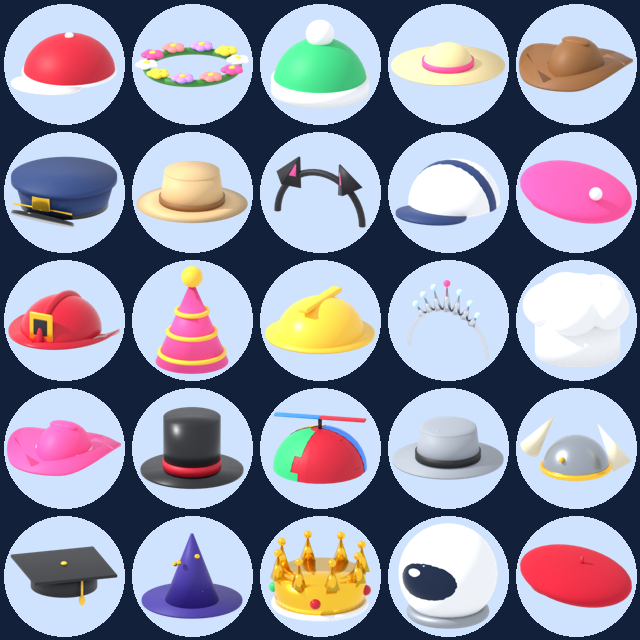
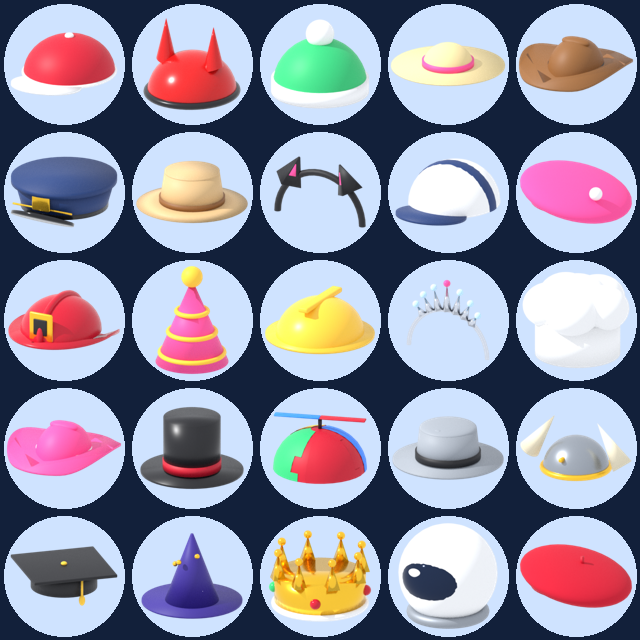
Hats: a red devil helmet with curved horns replaces the flower crown
Claude-Session: https://claude.ai/code/session_017STqJTMpUnkXP36gRmKSGi

Changed region(s): [[0.2188, 0.0312, 0.4062, 0.1875]]

diff --git a/Cornhole/Web/index.html b/Cornhole/Web/index.html
@@ -2133,7 +2133,7 @@ function scheduleLivesAlert() {
 // Headgear avatars made in Blender (web/tools/blender/hats.py): 4 to start, 3 more with each court you open, the
 // rarest (crown, astronaut, beret) at Court 8. About half are feminine picks. Ids stay a0..a24 so saves carry over.
 const AVATARS = [
-  ["ballcap", "#cfe3ff", 0], ["flowercrown", "#ffe0ee", 0], ["beanie", "#d8f2d8", 0], ["sunhat", "#fff2c8", 0],
+  ["ballcap", "#cfe3ff", 0], ["devil", "#ffe0d8", 0], ["beanie", "#d8f2d8", 0], ["sunhat", "#fff2c8", 0],
   ["cowboy", "#ffe6c8", 1], ["police", "#dbe6ff", 1], ["bucket", "#e6eef8", 1],
   ["catears", "#f0e6ff", 2], ["trucker", "#dbe6ff", 2], ["pinkberet", "#ffe0ec", 2],
   ["fireman", "#ffe0d8", 3], ["party", "#fff0c8", 3], ["hardhat", "#e6eef8", 3],
@@ -4251,7 +4251,7 @@ if (!nativeBridge) {
   }
 }
 // Testing: every new build refills the cooler with ready-to-open cans, so there's always something to try.
-const BUILD_ID = "1794102800";
+const BUILD_ID = "1794102889";
 if (testing() && career.testBuild !== BUILD_ID) {
   career.testBuild = BUILD_ID;
   career.cans = ["gold", "purple", "platinum", "diamond"].map(id => ({ id, court: topCourt(), start: Date.now() - 2 * 86400000 }));

diff --git a/web/index.html b/web/index.html
@@ -2129,7 +2129,7 @@ function scheduleLivesAlert() {
 // Headgear avatars made in Blender (web/tools/blender/hats.py): 4 to start, 3 more with each court you open, the
 // rarest (crown, astronaut, beret) at Court 8. About half are feminine picks. Ids stay a0..a24 so saves carry over.
 const AVATARS = [
-  ["ballcap", "#cfe3ff", 0], ["flowercrown", "#ffe0ee", 0], ["beanie", "#d8f2d8", 0], ["sunhat", "#fff2c8", 0],
+  ["ballcap", "#cfe3ff", 0], ["devil", "#ffe0d8", 0], ["beanie", "#d8f2d8", 0], ["sunhat", "#fff2c8", 0],
   ["cowboy", "#ffe6c8", 1], ["police", "#dbe6ff", 1], ["bucket", "#e6eef8", 1],
   ["catears", "#f0e6ff", 2], ["trucker", "#dbe6ff", 2], ["pinkberet", "#ffe0ec", 2],
   ["fireman", "#ffe0d8", 3], ["party", "#fff0c8", 3], ["hardhat", "#e6eef8", 3],
@@ -4247,7 +4247,7 @@ if (!nativeBridge) {
   }
 }
 // Testing: every new build refills the cooler with ready-to-open cans, so there's always something to try.
-const BUILD_ID = "1794102800";
+const BUILD_ID = "1794102889";
 if (testing() && career.testBuild !== BUILD_ID) {
   career.testBuild = BUILD_ID;
   career.cans = ["gold", "purple", "platinum", "diamond"].map(id => ({ id, court: topCourt(), start: Date.now() - 2 * 86400000 }));

diff --git a/web/src/g1d_economy.js b/web/src/g1d_economy.js
@@ -187,7 +187,7 @@ function scheduleLivesAlert() {
 // Headgear avatars made in Blender (web/tools/blender/hats.py): 4 to start, 3 more with each court you open, the
 // rarest (crown, astronaut, beret) at Court 8. About half are feminine picks. Ids stay a0..a24 so saves carry over.
 const AVATARS = [
-  ["ballcap", "#cfe3ff", 0], ["flowercrown", "#ffe0ee", 0], ["beanie", "#d8f2d8", 0], ["sunhat", "#fff2c8", 0],
+  ["ballcap", "#cfe3ff", 0], ["devil", "#ffe0d8", 0], ["beanie", "#d8f2d8", 0], ["sunhat", "#fff2c8", 0],
   ["cowboy", "#ffe6c8", 1], ["police", "#dbe6ff", 1], ["bucket", "#e6eef8", 1],
   ["catears", "#f0e6ff", 2], ["trucker", "#dbe6ff", 2], ["pinkberet", "#ffe0ec", 2],
   ["fireman", "#ffe0d8", 3], ["party", "#fff0c8", 3], ["hardhat", "#e6eef8", 3],

diff --git a/web/tools/blender/hats.py b/web/tools/blender/hats.py
@@ -243,7 +243,19 @@ def police():
     cyl((0, -0.96, 0.24), 0.02, 1.4, GOLD, rot=(0, math.radians(90), 0), metal=0.85)  # gold cord above the peak
     render("police")
 
-HATS = [ball_cap, flowercrown, beanie, sunhat, cowboy, police, bucket, catears, trucker, pinkberet, fireman, party, hardhat, tiara,
+def devil():
+    setup(); sphere((0, 0, 0), (1, 1.05, 0.95), "#d01818", half=True, rough=0.25)   # glossy red helmet
+    torus((0, 0, 0.04), 1.0, 0.08, BLACK, scale=(1, 1.05, 1), rough=0.3)
+    for sx in (-1, 1):  # smooth horns that curve outward toward their tips
+        bpy.ops.mesh.primitive_cone_add(vertices=24, radius1=0.24, radius2=0.0, depth=0.95, end_fill_type="NOTHING", location=(0, 0, 0))
+        h = bpy.context.active_object
+        for v in h.data.vertices:
+            t = (v.co.z + 0.475) / 0.95; v.co.x += sx * 0.32 * t * t; v.co.z += 0.0
+        bpy.ops.object.mode_set(mode="EDIT"); bpy.ops.mesh.subdivide(number_cuts=3); bpy.ops.object.mode_set(mode="OBJECT")
+        h.location = (sx * 0.45, -0.1, 1.15); h.rotation_euler = (0, sx * math.radians(-18), 0); fin(h, "#d01818", 0.25)
+    render("devil")
+
+HATS = [ball_cap, devil, beanie, sunhat, cowboy, police, bucket, catears, trucker, pinkberet, fireman, party, hardhat, tiara,
         chef, cowgirl, tophat, propeller, fedora, viking, grad, wizard, crown, astronaut, beret]
 only = sys.argv[sys.argv.index("--") + 1:] if "--" in sys.argv else []
 for f in HATS:

diff --git a/README.md b/README.md
@@ -14,7 +14,7 @@ The name and tagline are set in `web/src/game.env`. `web/build.sh` copies them i
 - **Lives (🎟 raffle tickets):** up to 5. A match uses one, and a win gives it back. One refills every hour. Extra tickets come from the Store, from coins (at a steep price), from 15 bottle caps, or rarely from a can. The iPhone app can notify you when they're full.
 - **Bottle caps:** the premium currency (a red cap with a star). Use them to open a can now (1 cap for every 10 minutes left) or to buy a ticket. You start with 20, get some from cans (more often from rare ones) and 3 per 4-bagger, and can buy packs in the Store.
 - **Profile (tap your avatar):** three tabs.
-  - **Avatar:** 25 hats and helmets on their own (ball cap, flower crown, cowboy hat, police hat, fireman helmet, tiara, crown, astronaut helmet and more; several feminine picks), made in Blender (`web/tools/blender/hats.py`). 4 to start, 3 more with each court you open through Court 8. Your Game Center picture is the default when you have one.
+  - **Avatar:** 25 hats and helmets on their own (ball cap, devil helmet, cowboy hat, police hat, fireman helmet, tiara, crown, astronaut helmet and more; several feminine picks), made in Blender (`web/tools/blender/hats.py`). 4 to start, 3 more with each court you open through Court 8. Your Game Center picture is the default when you have one.
   - **Profile:** your handle and stats. New players are "guest-" plus 10 digits, or their Game Center name, until they choose a handle (3–16 letters, numbers, dots, dashes or underscores). Live opponents see your handle.
   - **Settings:** music and sound effects on/off and volume, haptics, and alerts.
 - **Computer opponents** and the CPU players in season groups use player-style handles (for example SliderSam22) and aren't labeled; How to play mentions that you play a computer opponent when no one is available.
